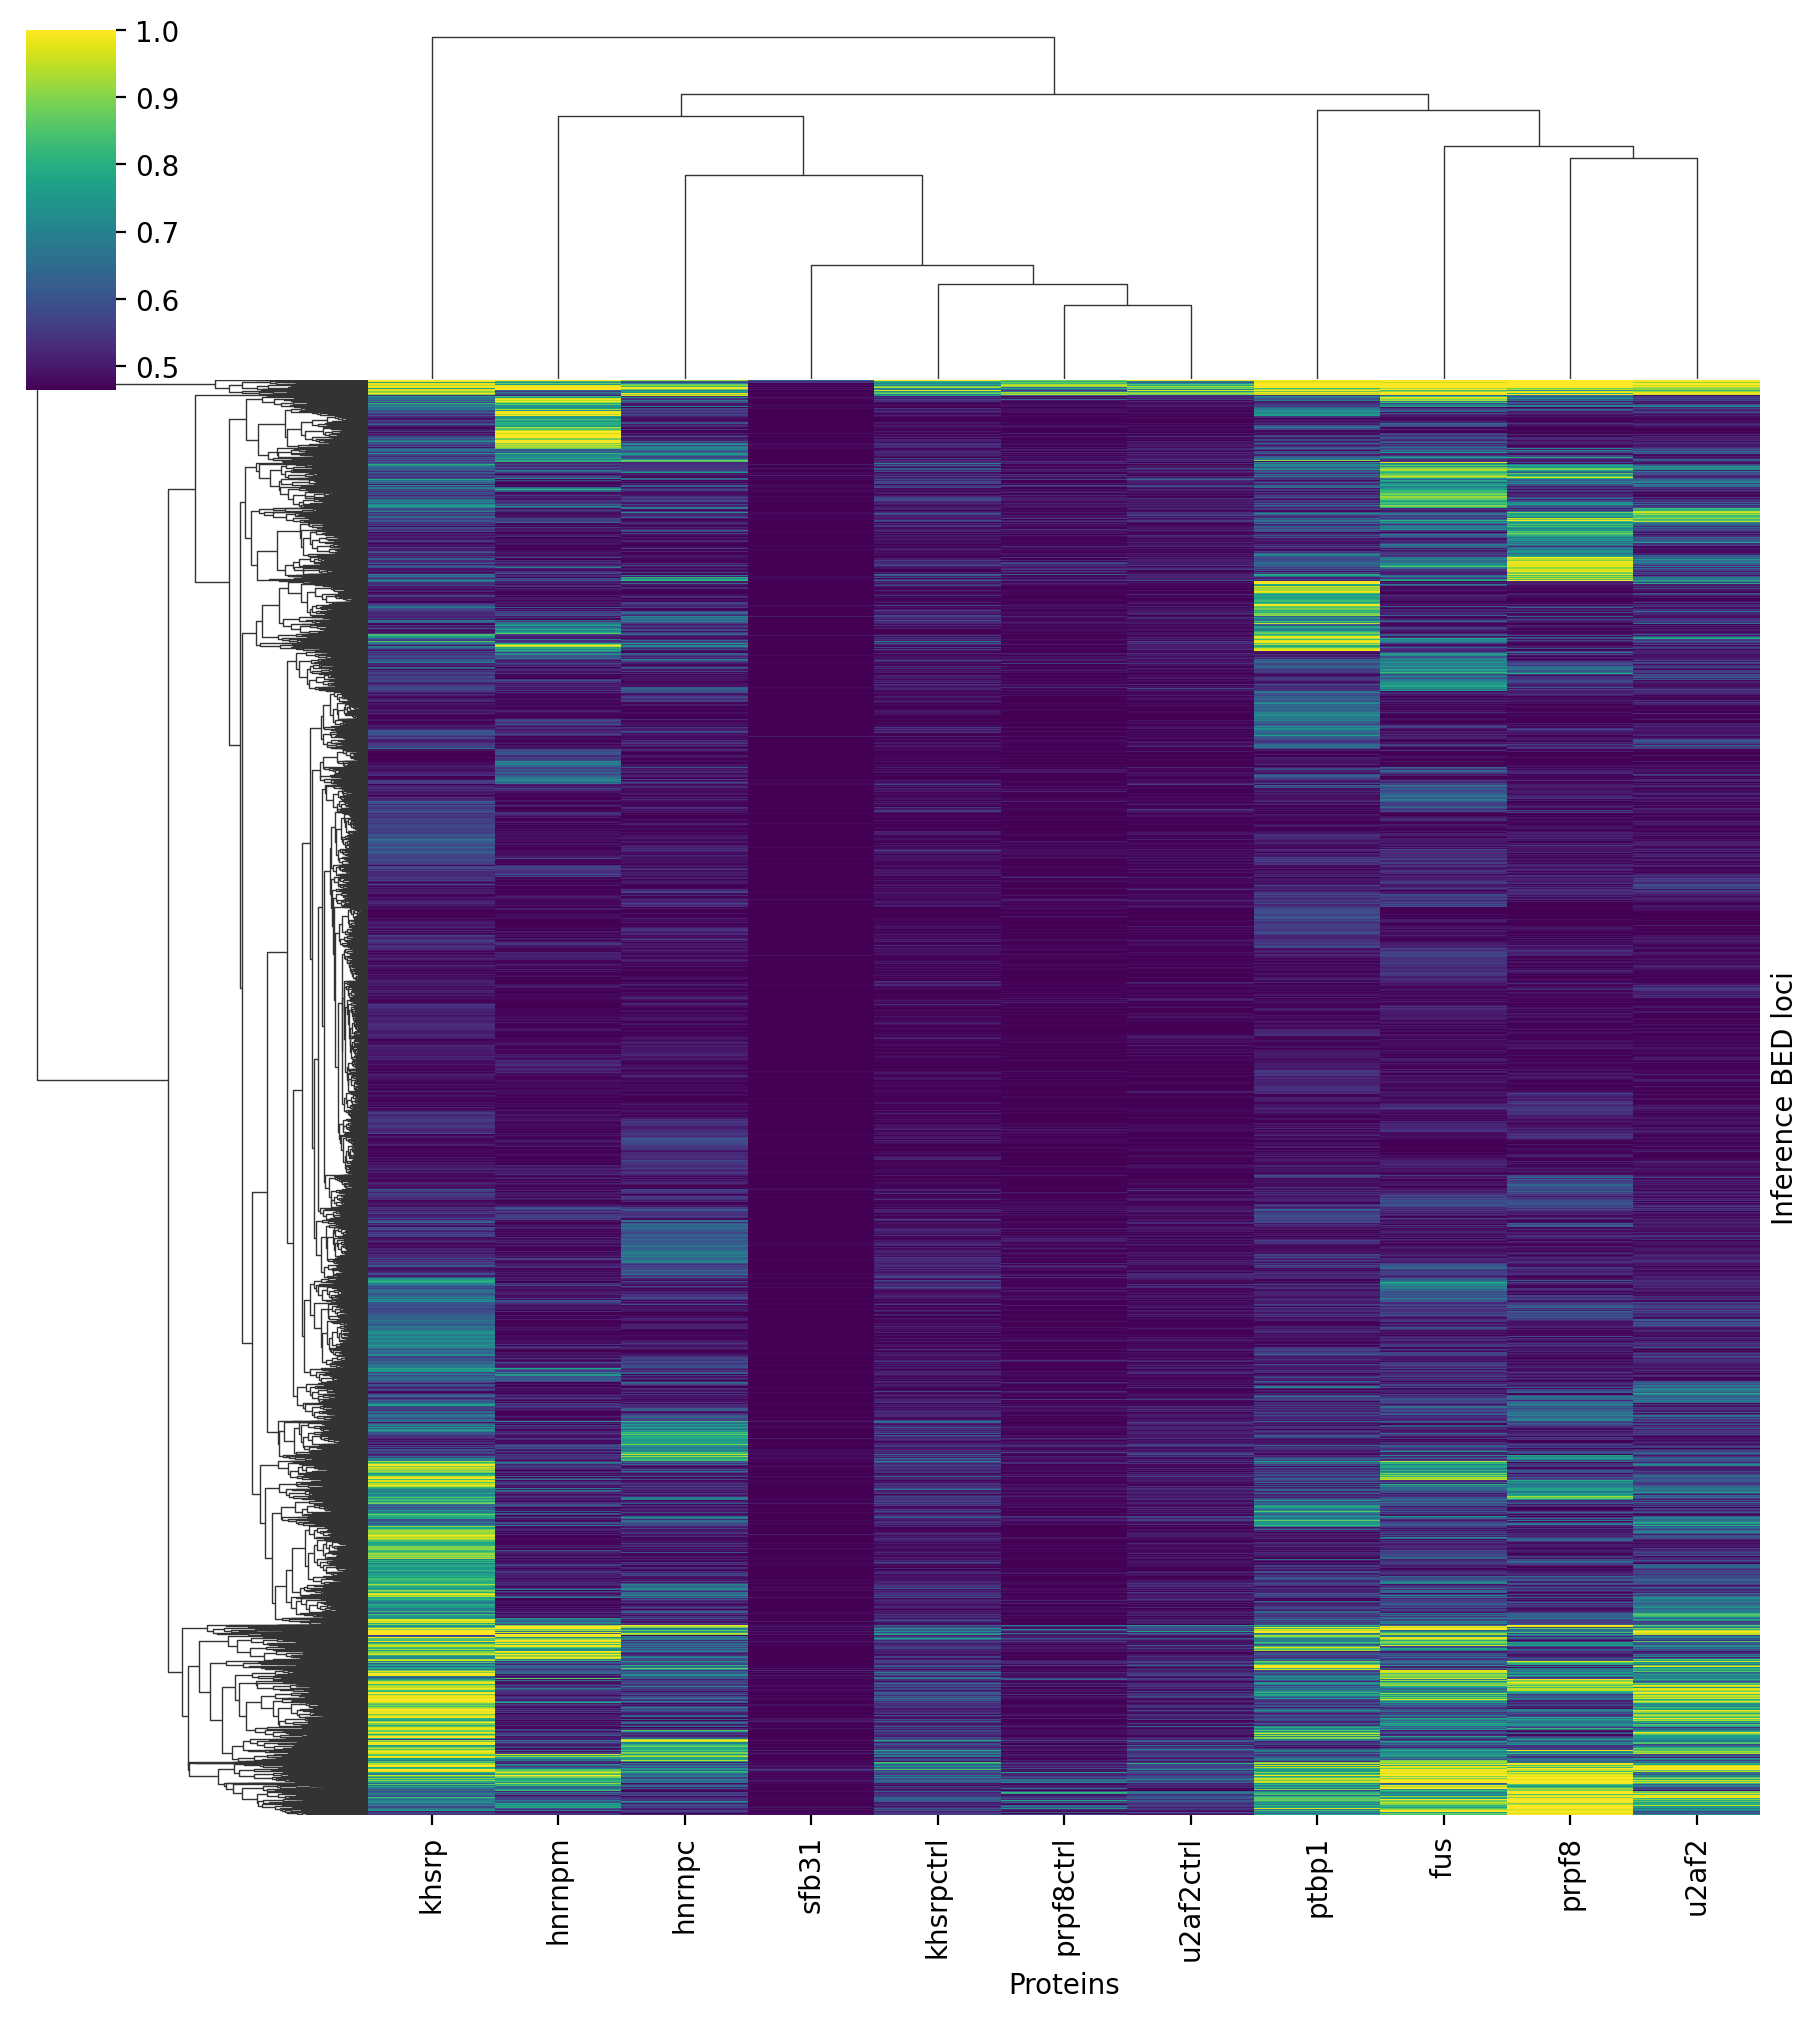
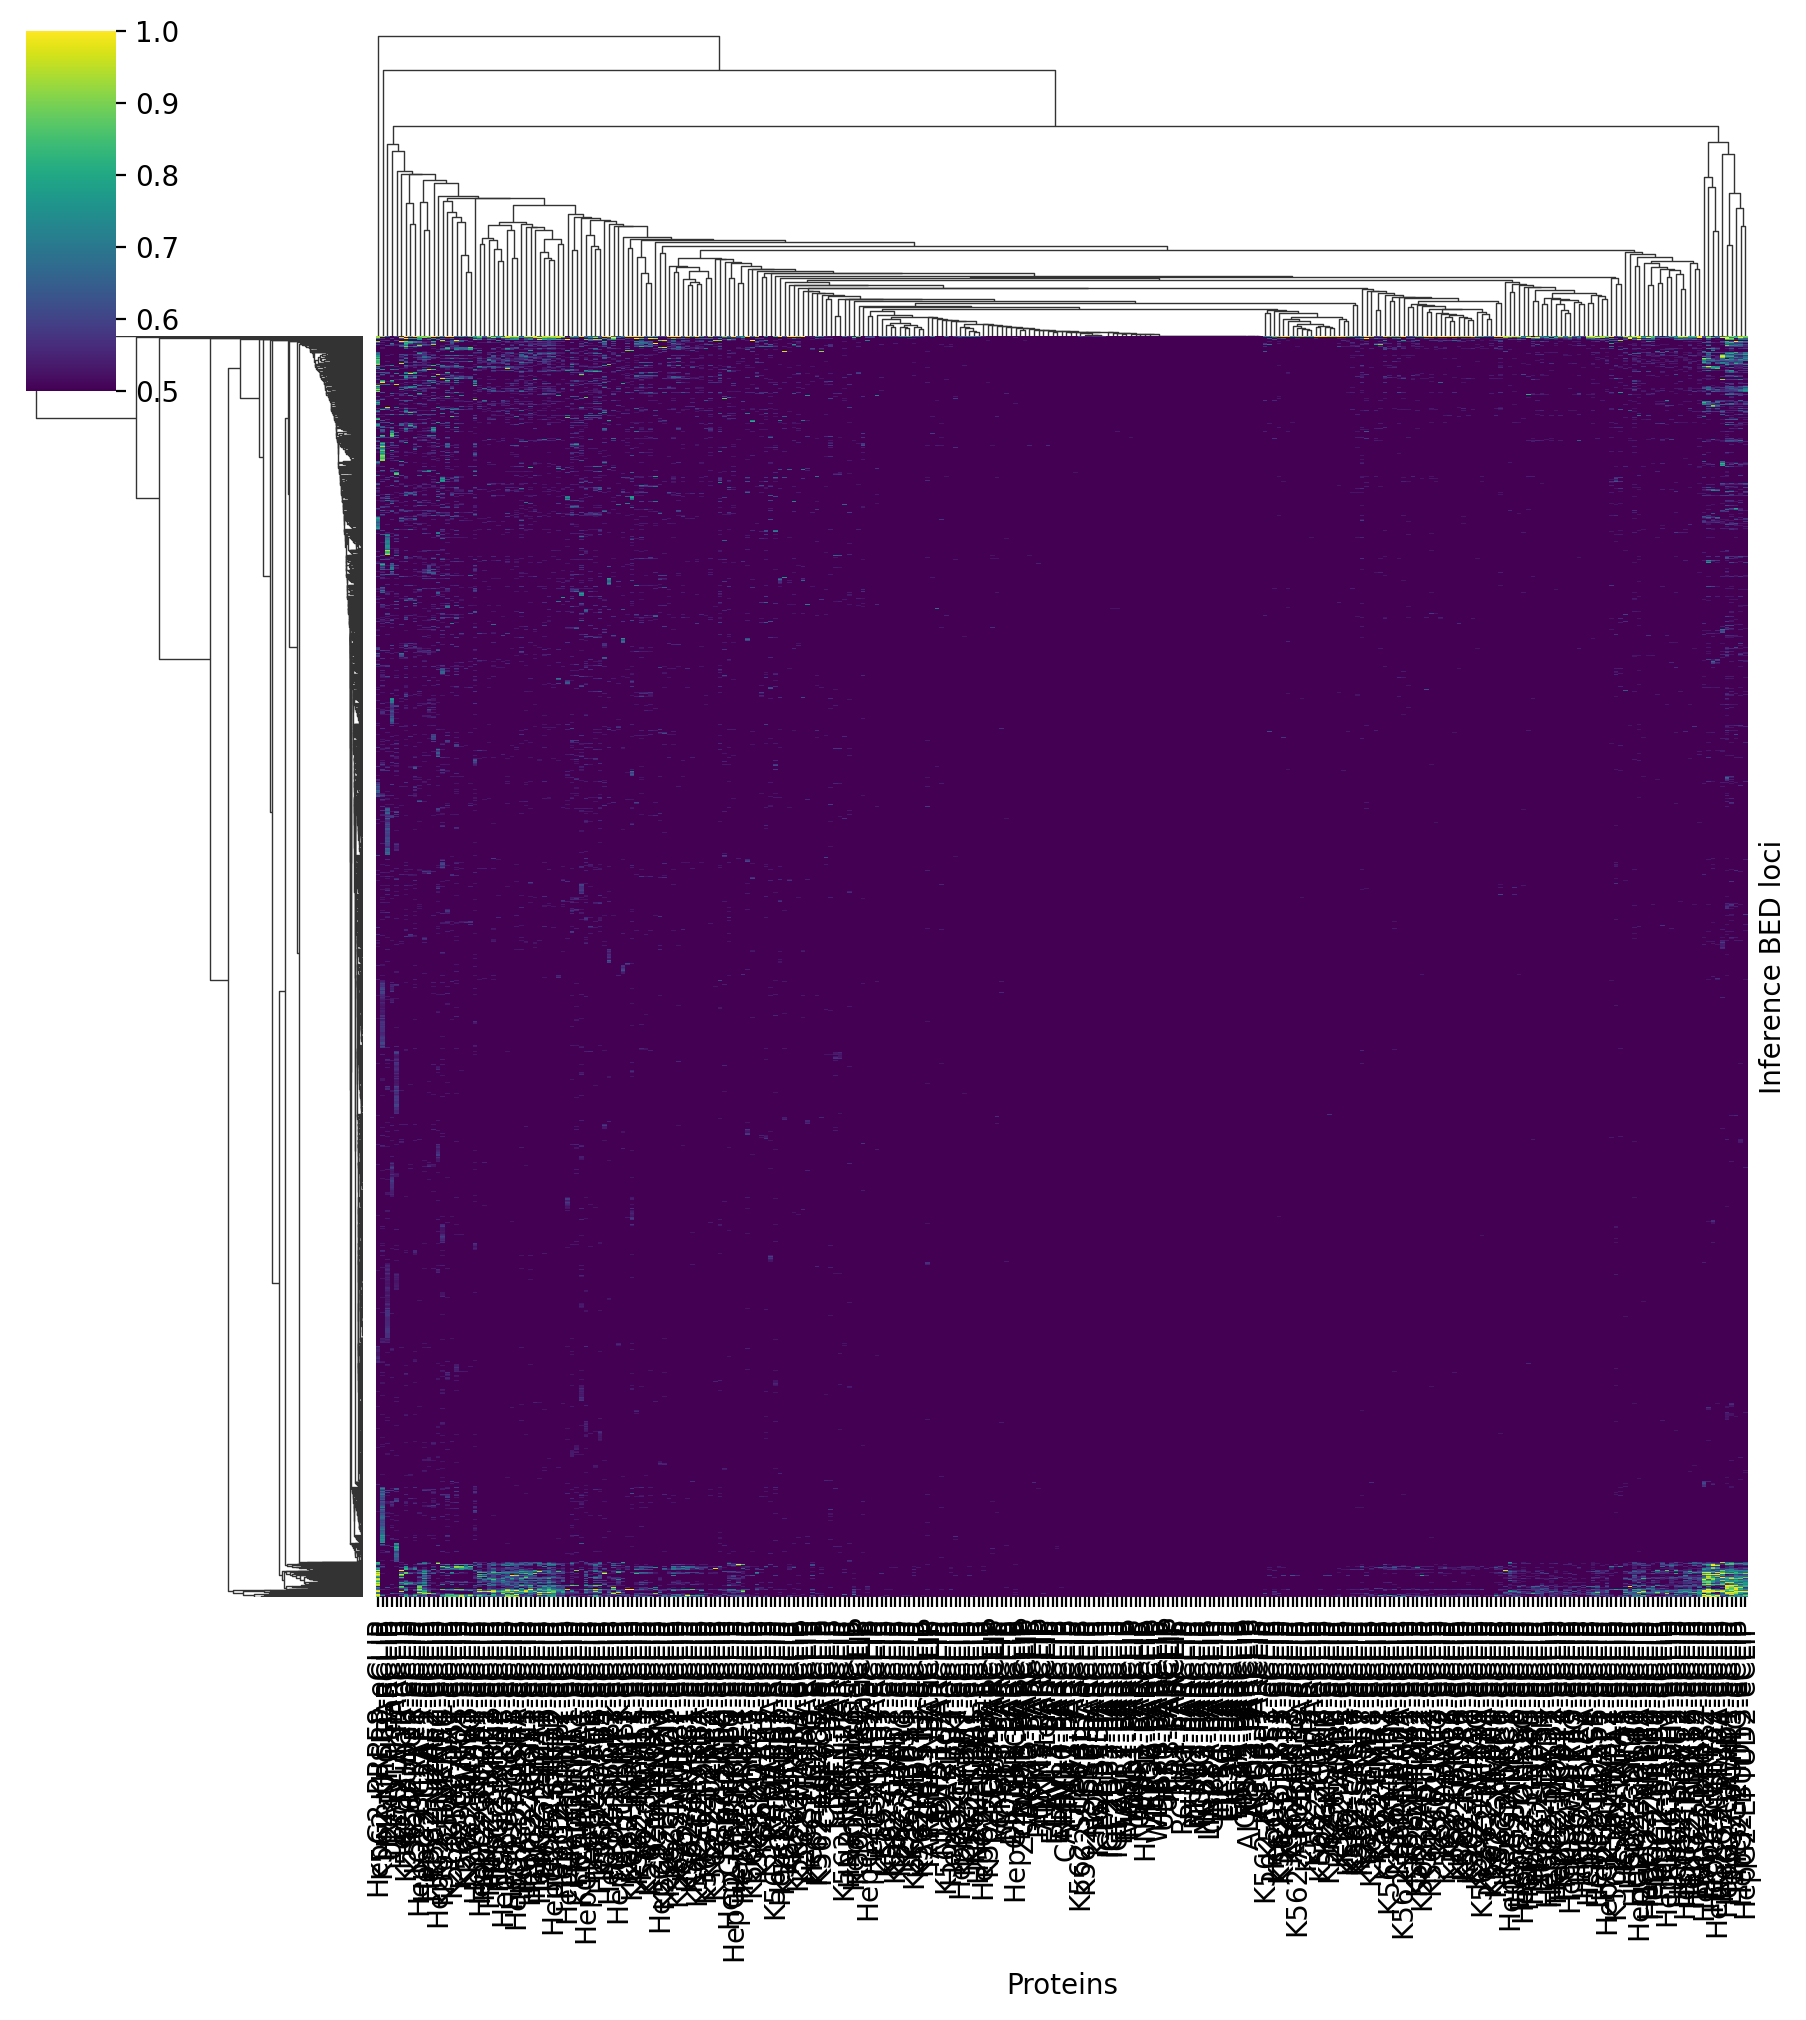
first run of full analysis

diff --git a/scripts/intersect_inference_bed.py b/scripts/intersect_inference_bed.py
@@ -13,7 +13,7 @@ import matplotlib.pyplot as plt
 import numpy as np
 import seaborn as sns
 
-DEFAULT_GENOME = "/scratch/prj/ppn_rnp_networks/shared/references/genomes/homo_sapiens/GRCh38.p14-GencodeRelease44/hg38.genome"
+DEFAULT_GENOME = "/camp/home/jonesm6/home/shared/genomes/hg38/hg38.genome"
 
 def parse_args():
     p = argparse.ArgumentParser(description="Intersect inference BED with multiple crosslink types and summarize")
